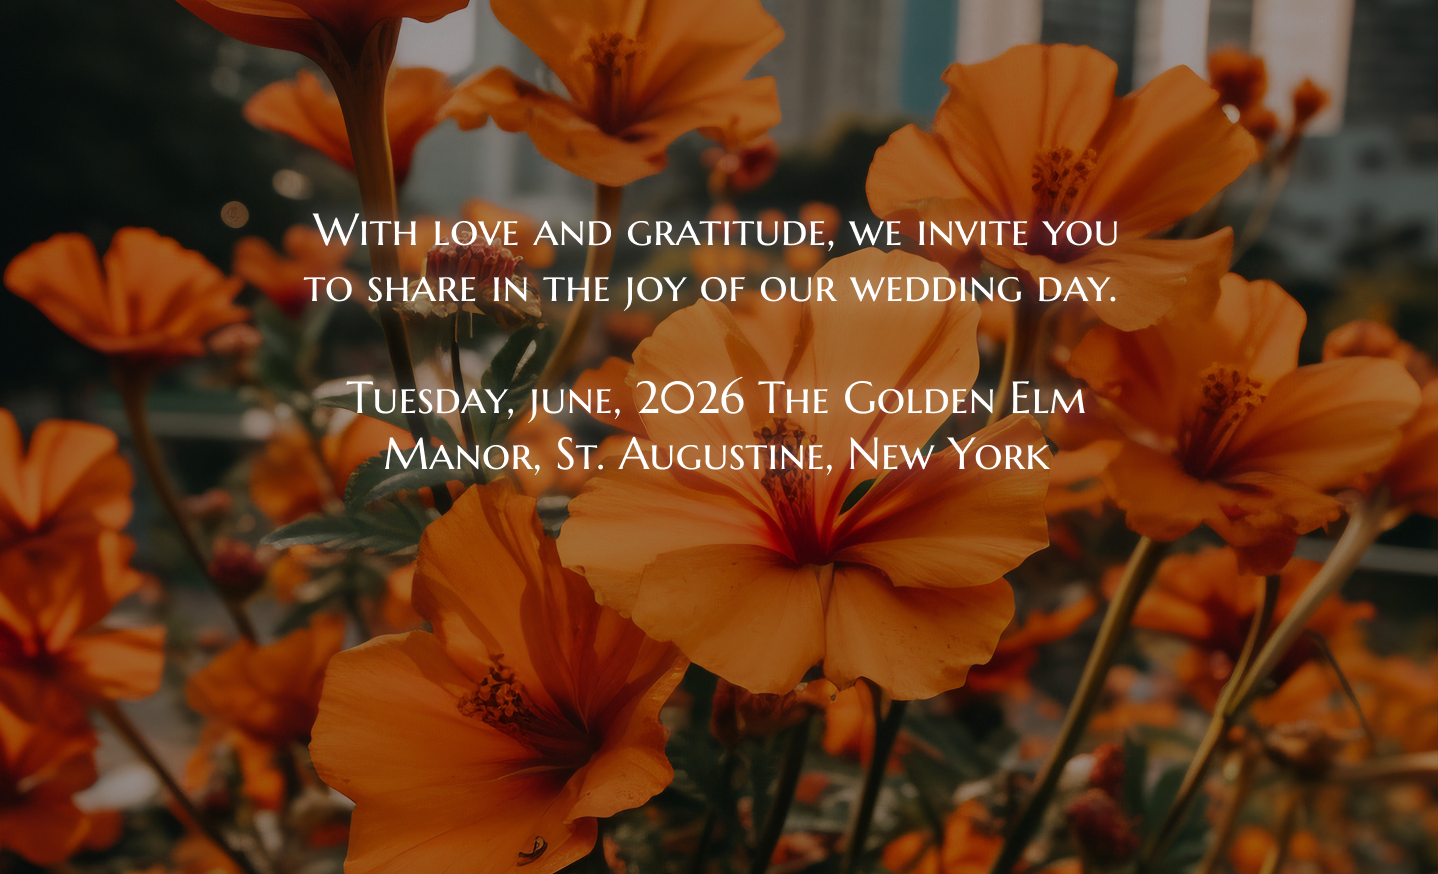
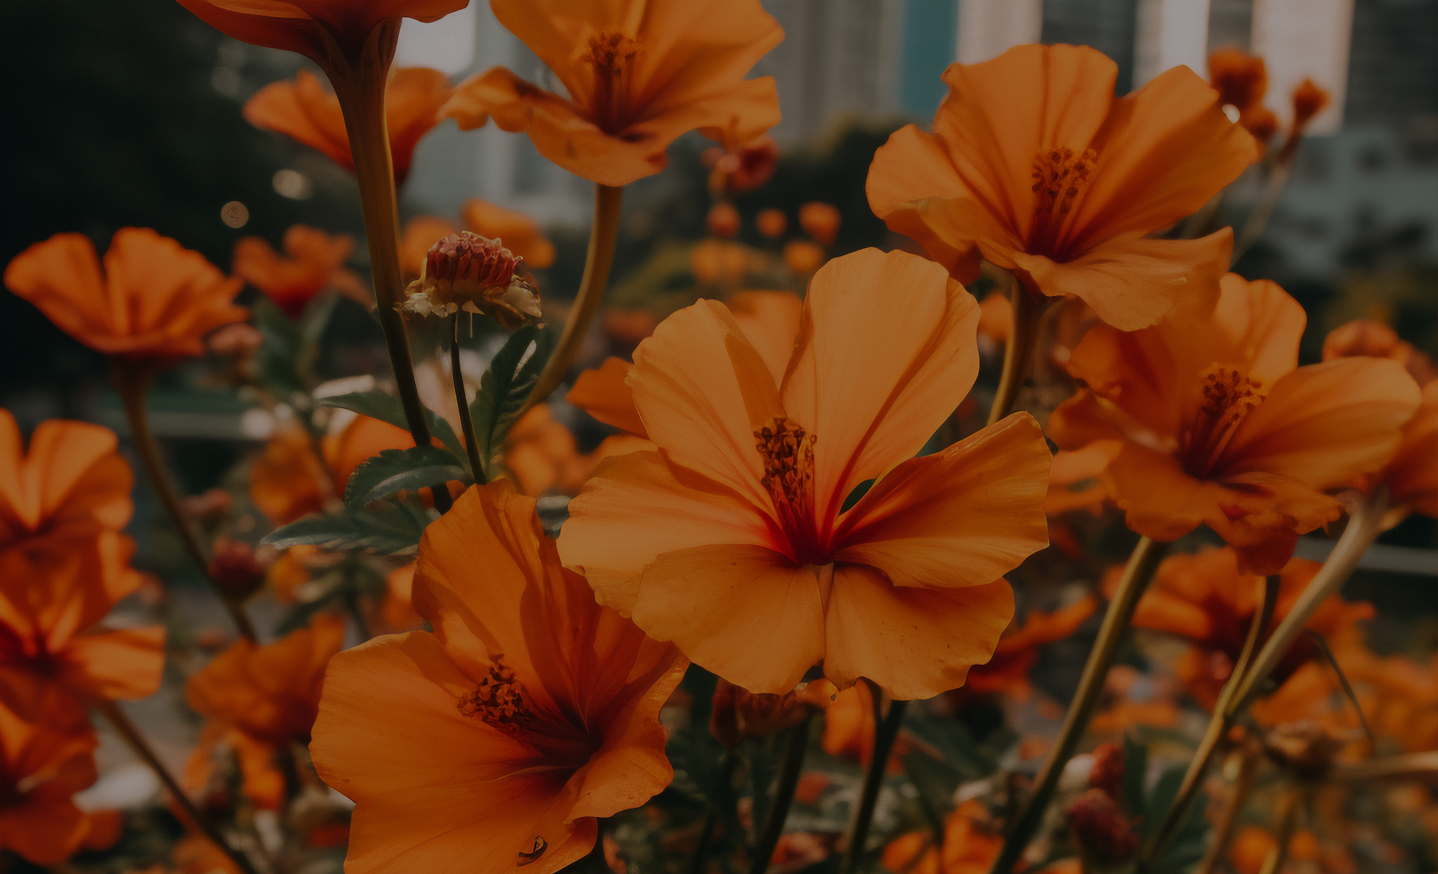
continuacao

Changed region(s): [[0.2448, 0.4325, 0.765, 0.5561], [0.2142, 0.2471, 0.7955, 0.3707]]

diff --git a/src/App.vue b/src/App.vue
@@ -22,6 +22,35 @@
   </h2>
   <h3>june, 23rd 2026</h3>
 </section>
+<section class="intro">
+  <p>
+    With love and gratitude, we invite you to share in the joy of our wedding day.
+  </p>
+  <p>
+    Tuesday, june, 2026 The Golden Elm Manor, St. Augustine, New York
+  </p>
+</section>
+<section class="cards">
+  <div class="story">
+    <h3>Our Story</h3>
+  </div>
+  <div class="detals">
+    <h3>The Detals</h3>
+  </div>
+  <div class="rspv">
+    <h3>RSPV</h3>
+  </div>
+  <div class="regitry">
+    <h3>Registry</h3>
+  </div>
+</section>
+<section class="registry">
+  <h3>Registry</h3>
+  <p>
+    Your presence is the most cherished gift. Should you wish to contribute, we've created a honeymoon registry to help us embark on a memorable adventure to the Amalfi Coast.
+  </p>
+  <button>GO to Registry</button>
+</section>
 </template>
 
 <style scoped>
@@ -71,7 +100,79 @@ header{
     color: #fff;
     font-size: 25px;
     font-weight: normal;
-    margin: 0;
+    margin: 0 0 60px 0;
+  }
+}
+.intro{
+  background: url(/public/flowers.png ) no-repeat center center/cover;
+  min-height: 800px;
+  align-items: center;
+  display: flex ;
+  flex-direction: column;
+  justify-content: center;
+  text-align: center;
+  & p{
+    font-size: 45px;
+    color: #fff;
+    text-shadow: 0 0 30px #ffffffaf;
+    width: 50%;
+  }
+}
+.cards{
+  display: flex;
+  flex-wrap: wrap;
+  justify-content: center;
+  align-items: center;
+  text-align: center;
+  & div{
+    width: 35%;
+    padding: 300px 0;
+    margin: 50px;
+    box-shadow: 0 0 75px rgba(0, 0, 0, 0.705);
+     & h3{
+      color: #fff;
+      text-shadow: 0 0 30px #ffffffaf;
+      text-decoration: underline 1.5px;
+      font-size: 45px;
+      font-weight: normal;
+     }
+
+  }
+  & .story{
+    background: url(/public/folha.png) no-repeat center center/cover;
+
+  }
+  & .detals{
+    background: url(/public/carta.png) no-repeat center center/cover;
+  }
+  & .rspv{
+    background: url(/public/aliacas.png) no-repeat center center/cover;
+  }
+  & .regitry{
+    background: url(/public/book.png) no-repeat center center/cover;
+  }
+}
+.registry{
+  background: url(/public/flores.png ) no-repeat center center/cover;
+  min-height: 800px;
+  align-items: center;
+  display: flex ;
+  flex-direction: column;
+  justify-content: center;
+  text-align: center;
+  & h3{
+    color: #fff;
+    text-shadow: 0 0 30px #ffffffaf;
+    font-size: 45px;
+    font-weight: normal;
+  }
+  & p{
+
+    color: #fff;
+    text-shadow: 0 0 30px #ffffffaf;
+    font-size: 45px;
+    width: 70%;
+    
   }
 }
 </style>
